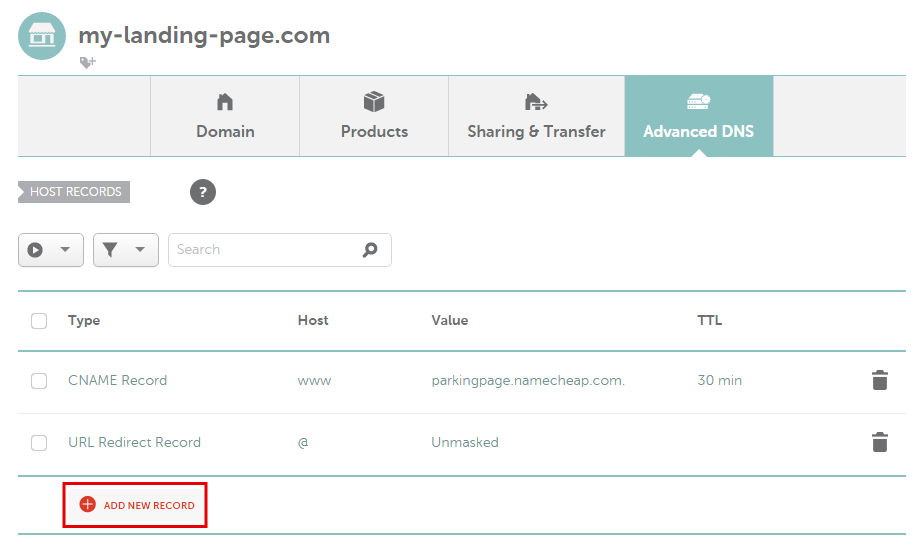
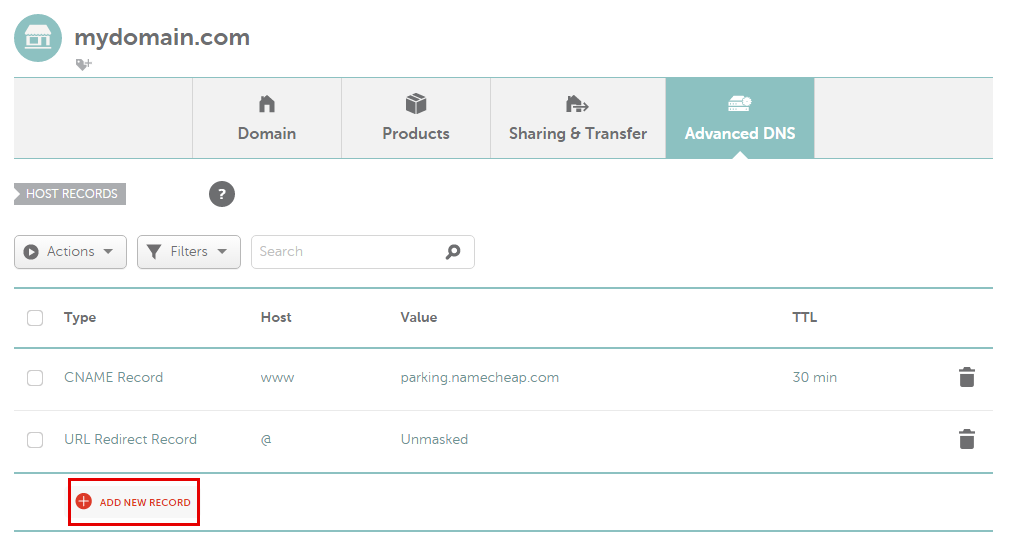
..

diff --git a/publishing/third-party-domains/namecheap/index.rst b/publishing/third-party-domains/namecheap/index.rst
@@ -58,110 +58,54 @@ Set up your domain with Namecheap
 
 		|namecheap-cname-record-save|
 
-12. Claim your custom domain in BitBlox [LINK]
+12. Next to the **URL Redirect Record** click on the trashcan icon		
+		
+		
+    .. class:: screenshot	
+		
+		|namecheap-remove-url-records|
+		
+13. In your BitBlox account, click **Edit Page** on your landing page. 
+
+     .. class:: screenshot
+
+		|bitblox-click-edit-page|
+
+		
+		
+14. Open the **Page Panel** and click the **Settings** icon
+
+     .. class:: screenshot
+
+		|bitblox-click-settings|
 
 
-Link your domain to BitBlox project
-
-
-
-1. `Log in to your BitBlox account <https://www.bitblox.me/welcome/>`__
-2. Find the project you want to link to your domain, click **Edit Site**
+15. Click **Settings** tab and then click **3rd Party Domain** tab
 
 
     .. class:: screenshot
 
-		|namecheap-click-edit-site-bitblox|
+		|bitblox-click-3-rd-party-domain|
 
-
-.. note::
-
-	If you're new to BitBlox - click **add new project**. Click a template to learn more or to view a larger preview, then click **start with this design**
-
-
-3. In **Page Panel** click **Settings** icon
+16. In the **Domain Name** box enter the full domain name you want to link, and then click **Connect Domain** button
 
 
     .. class:: screenshot
+ 
+		|bitblox-connect-domain|
+    
+17. After you connect your domain, a new panel will open with the records you need to enter in your provider account so your domain connects to BitBlox.
 
-		|namecheap-in-page-pane-click-settings|
+	
+    .. class:: screenshot
 
-
-
-
-4. Click **Settings**
+		|bitblox-dns-settings|
+	
+18. After changing the records in your domain provider, return to BitBlox **Domain List** and click **Refresh** button. If your records are enetered correctly, the **Current Data** will be in green color.
 
     .. class:: screenshot
 
-		|namecheap-click-settings|
-
-
-
-5. Click **3rd Pary Domain**
-
-   .. class:: screenshot
-
-
-		|namecheap-click-3rd-party-domain|
-
-
-6. In **Domain Name** box, enter the full domain name you own from a third-pary domain provider
-7. Click **Connect Domain**
-
-
-   .. class:: screenshot
-
-
-		|namecheap-click-connect-domain|
-
-
-8. After you connect your domain, a new panel will open with your IP address  ``162.243.77.151``
-
-   .. class:: screenshot
-
-
-		|namecheap-bitblox-ip|
-
-9. After changing your records, return to the Domains Panel and click **Refresh** below the records
-
-
-   .. class:: screenshot
-
-
-		|namcheap-click-refresh|
-
-
-
-10. If all records are entered correctly, the **Current Data** will change the color into green
-
-
-   .. class:: screenshot
-
-
-		|namecheap-ip-green|
-
-
-
-
-
-
-
-
-
-
-
-
-
-
-
-
-
-
-
-
-
-
-
+		|bitblox-click-refresh|
 
 
 
@@ -197,7 +141,7 @@ Set up your subdomain with Namecheap
 
 
 5. In the **Type** column, use the drop-down menu to select **A Record**
-6. In the **Host** text box, enter your subdomain prefix (if you picked ``promo.mydomain.com`` as your sudomain, enter ``promo``)
+6. In the **Host** text box, enter your subdomain prefix (if you picked ``promo.mydomain.com`` as your subdomain, enter ``promo``)
 7. In the **Value** text box , enter BitBlox's IP address ``162.243.77.151``
 8. Click the **Save Changes** icon:
 
@@ -205,8 +149,52 @@ Set up your subdomain with Namecheap
 
 		|namecheap-a-record-save-subdomain|
 
+9. Next to the **URL Redirect Record** click on the trashcan icon		
+		
+		
+    .. class:: screenshot	
+		
+		|namecheap-remove-url-records-subdomain|
+			
+		
+11.In your BitBlox account, click **Edit Page** on your landing page. 
 
-9. Claim your custom domain in BitBlox [LINK]
+     .. class:: screenshot
+
+		|bitblox-click-edit-page|
+
+12.Open the **Page Panel** and click the **Settings** icon
+
+     .. class:: screenshot
+
+		|bitblox-click-settings|		
+		
+13. Click **Settings** tab and then click **3rd Party Domain** tab
+
+
+    .. class:: screenshot
+
+		|bitblox-click-3-rd-party-domain|
+
+14. In the **Domain Name** box enter the full domain name you want to link, and then click **Connect Domain** button
+
+
+    .. class:: screenshot
+
+		|bitblox-subdomain-click-connect-domain|
+    
+15. After you connect your domain, a new panel will open with the records you need to enter in your provider account so your domain connects to BitBlox.
+
+	
+    .. class:: screenshot
+
+		|bitblox-subdomain-dns-settings|
+	
+16. After changing the records in your domain provider, return to BitBlox **Domain List** and click **Refresh** button. If your records are enetered correctly, the **Current Data** will be in green color.
+
+    .. class:: screenshot
+
+		|bitblox-subdomain-refresh|
 
 .. note::
 
@@ -234,12 +222,15 @@ For more help with settings in your Namecheap account, contact their `support te
 .. |namecheap-a-record-save-subdomain| image:: _images/namecheap-a-record-save-subdomain.png
 .. |namecheap-edit-cname| image:: _images/namecheap-edit-cname.png
 .. |namecheap-cname-record-save| image:: _images/namecheap-cname-record-save.png
+.. |namecheap-remove-url-records| image:: _images/namecheap-remove-url-records.png
+.. |namecheap-remove-url-records-subdomain| image:: _images/namecheap-remove-url-records-subdomain.png
 
-.. |namecheap-click-edit-site-bitblox| image:: _images/namecheap-click-edit-site-bitblox.png
-.. |namecheap-in-page-pane-click-settings| image:: _images/namecheap-in-page-pane-click-settings.png
-.. |namecheap-click-settings| image:: _images/namecheap-click-settings.png
-.. |namecheap-click-3rd-party-domain| image:: _images/namecheap-click-3rd-party-domain.png
-.. |namecheap-click-connect-domain| image:: _images/namecheap-click-connect-domain.png
-.. |namecheap-bitblox-ip| image:: _images/namecheap-bitblox-ip.png
-.. |namcheap-click-refresh| image:: _images/namcheap-click-refresh.png
-.. |namecheap-ip-green| image:: _images/namecheap-ip-green.png
+.. |bitblox-click-3-rd-party-domain| image:: _images/bitblox-click-3-rd-party-domain.png
+.. |bitblox-subdomain-click-connect-domain| image:: _images/bitblox-subdomain-click-connect-domain.png
+.. |bitblox-subdomain-dns-settings| image:: _images/bitblox-subdomain-dns-settings.png
+.. |bitblox-click-edit-page| image:: _images/bitblox-click-edit-page.png
+.. |bitblox-subdomain-refresh| image:: _images/bitblox-subdomain-refresh.png
+.. |bitblox-connect-domain| image:: _images/bitblox-connect-domain.png
+.. |bitblox-dns-settings| image:: _images/bitblox-dns-settings.png
+.. |bitblox-click-refresh| image:: _images/bitblox-click-refresh.png
+.. |bitblox-click-settings| image:: _images/bitblox-click-settings.jpg
